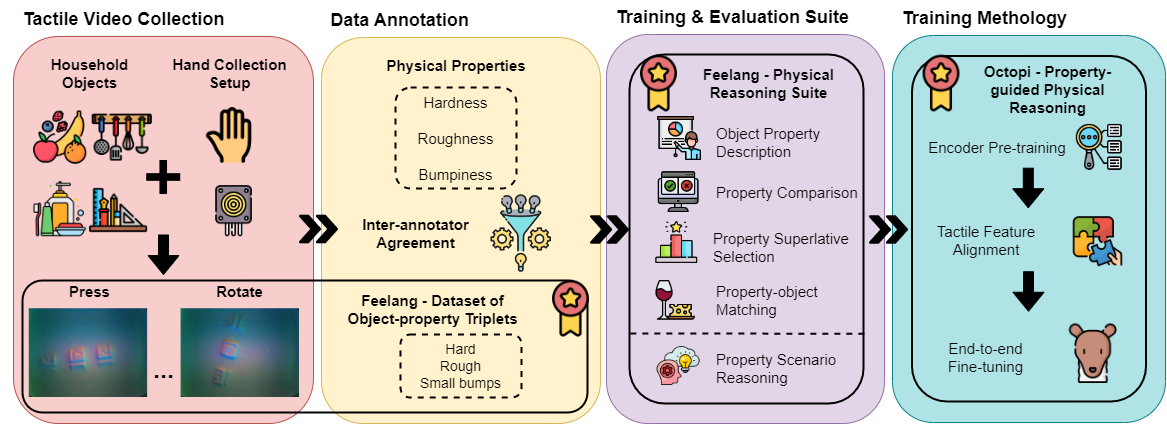
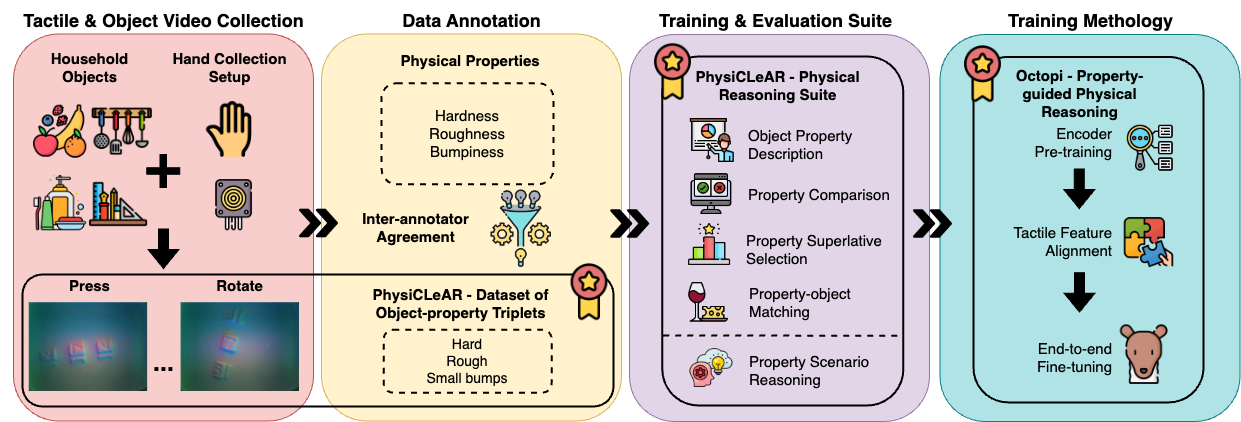
Formatting

diff --git a/index.html b/index.html
@@ -82,7 +82,7 @@
 <section class="hero teaser">
   <div class="container is-fullhd">
         <h2 class="subtitle has-text-centered">
-          <b>Summary</b>: VLM physical property prediction and scenario reasoning with GelSight tactile videos.
+          <b>Summary</b>: Large VLM physical property prediction and scenario reasoning with GelSight tactile videos.
         </h2>
         <br>
         <div class="columns is-vcentered is-centered">
@@ -107,7 +107,10 @@
           <div class="content has-text-justified">
             <br>
             <p>
-            Physical reasoning is essential for safe and efficient AI systems in robotic manipulation. To ensure that the system’s physical understanding of the object properties is grounded in its existing physical reality, computer vision is insufficient. In this work, we first define a set of physical properties that are both useful and decipherable from our choice of tactile sensor, GelSight, and introduce PhysiCLeAR, a tactile video dataset annotated using the physical properties. We then introduce Octopi, an end-to-end system that leverages both tactile representation learning and large vision-language models to predict and reason about vision-based tactile inputs with minimal language fine-tuning. We construct an evaluation suite spanning five problems to evaluate our system's learned tactile representations and physical reasoning holistically. Our experiments show that Octopi is able to effectively use intermediate physical property prediction to improve physical reasoning robustness and improve performance on robotic tasks when there is visual ambiguity.
+            We introduce <b>PhysiCLeAR</b>, a new dataset containing GelSight tactile videos of 74 everyday household objects. The videos are collected by hand
+            with two exploratory procedures, pressing and rotation, and annotated for three physical properties: hardness,
+            roughness and bumpiness. PhysiCLeAR leverages the videos and annotations to create five language-driven physical description and understanding
+            tasks. We train and evaluate <b>Octopi</b>, a large VLM, on PhysiCLeAR for tactile-grounded physical understanding and scenario reasoning.
             </p>
           </div>
         </div>
@@ -127,13 +130,15 @@
         <h3 class="title is-3">PhysiCLeAR: Tactile Dataset</h3>
         <div class="content has-text-justified">
           <p>
-            To facilitate the grounding of our physical reasoning on tactile inputs, we collected a tactile dataset of 74 everyday objects, totalling 408 tactile videos. These objects were selected to span across our three selected properties, with variations across object types and materials.
+            A new GelSight tactile dataset with property diversity, object diversity, and material diversity for three useful physical properties: hardness, roughness and bumpiness.
+            of 74 everyday objects, totalling 408 tactile videos. These objects were selected to span across our three selected properties, with variations across object types and materials.
           </p>
         </div>
       </div>
     </div>
     <img src="media/dataset.png" class="interpolation-image" alt="Dataset features." />
     <img src="media/items.png" class="interpolation-image" alt="Dataset Items." />
+    <br>
     <div class="columns is-centered has-text-centered">
       <h4 class="title is-4">Example Tactile Images</h4>
     </div>
